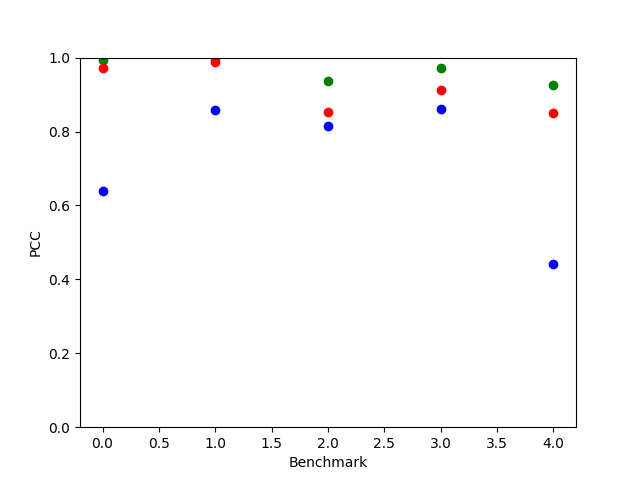
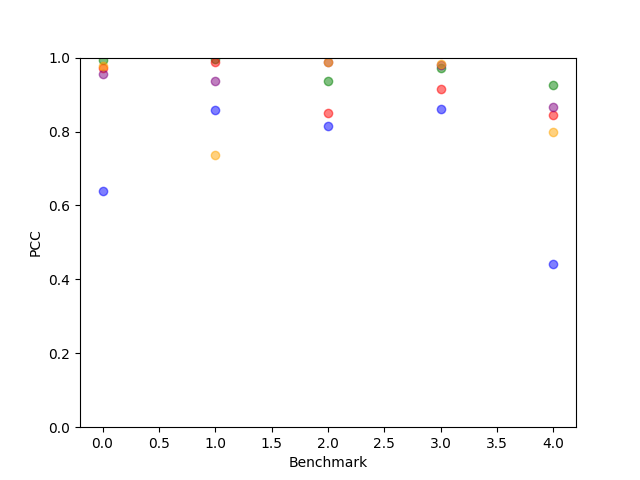
Changes to first benchmark creation and presentation. Full demo of xgboost and random forests for first benchmark

diff --git a/mosaic/preprocessing.py b/mosaic/preprocessing.py
@@ -1,6 +1,5 @@
 import numpy as np
 import pandas as pd
-from scipy.sparse import issparse
 import scanpy as sc
 
 
@@ -44,24 +43,17 @@ def generate_signature_matrix(adata_list, dest, cell_type_col='cluster_label',
     return signature
 
 
-def generate_eval_pseudobulk(adata_list, signature, dest=None, sample_col='sample_id',
+def generate_eval_pseudobulk(adata_list, peaks, dest=None, sample_col='sample_id',
                              dataset_prefix=False):
 
-    print("Loading signature reference...")
-    if isinstance(signature, str):
-        sig_df = pd.read_csv(signature, sep='\t', index_col=0)
-    else:
-        sig_df = signature.copy()
-
-    sig_peaks = sig_df.index
     bulk_sums = {}
     seen_samples = {}
 
     for i, adata in enumerate(adata_list):
         print(f"Aggregating bulk for dataset {i+1}/{len(adata_list)}...")
 
-        common_peaks = adata.var_names.intersection(sig_peaks)
-        missing = len(sig_peaks) - len(common_peaks)
+        common_peaks = adata.var_names.intersection(peaks)
+        missing = len(peaks) - len(common_peaks)
         if missing > 0:
             print(f"  Warning: {missing} signature peaks absent from dataset "
                   f"{i+1} — these will be treated as 0 after normalization.")
@@ -81,17 +73,17 @@ def generate_eval_pseudobulk(adata_list, signature, dest=None, sample_col='sampl
                 raw_sum = np.asarray(subset.X.sum(axis=0)).flatten()
 
                 # Align to full signature peak set
-                series = pd.Series(0.0, index=sig_peaks)
+                series = pd.Series(0.0, index=peaks)
                 series.loc[common_peaks] = raw_sum
 
-                bulk_sums[key] = bulk_sums.get(key, pd.Series(0.0, index=sig_peaks)) + series
+                bulk_sums[key] = bulk_sums.get(key, pd.Series(0.0, index=peaks)) + series
         else:
             key = f"sample_{i+1}"
             subset = adata[:, common_peaks]
             raw_sum = np.asarray(subset.X.sum(axis=0)).flatten()
-            series = pd.Series(0.0, index=sig_peaks)
+            series = pd.Series(0.0, index=peaks)
             series.loc[common_peaks] = raw_sum
-            bulk_sums[key] = bulk_sums.get(key, pd.Series(0.0, index=sig_peaks)) + series
+            bulk_sums[key] = bulk_sums.get(key, pd.Series(0.0, index=peaks)) + series
 
     print("Normalizing bulk samples...")
     bulk = pd.DataFrame(bulk_sums)  # peaks x samples
@@ -104,7 +96,7 @@ def generate_eval_pseudobulk(adata_list, signature, dest=None, sample_col='sampl
         col_totals = col_totals.drop(zero_samples)
 
     bulk_norm = np.log1p((bulk.div(col_totals, axis=1)) * 1e6)
-    bulk_norm = bulk_norm.loc[sig_peaks]
+    bulk_norm = bulk_norm.loc[peaks]
 
     print(f"Bulk matrix shape: {bulk_norm.shape} (peaks x samples)")
     if dest:
@@ -113,7 +105,7 @@ def generate_eval_pseudobulk(adata_list, signature, dest=None, sample_col='sampl
     return bulk_norm
 
 
-def generate_training_pseudobulks(adata, signature, cell_type_col="cluster_label", n_pseudobulks=1000):
+def generate_training_pseudobulks(adata, peaks, cell_type_index, cell_type_col="cluster_label", n_pseudobulks=1000) -> tuple[pd.DataFrame, pd.DataFrame]:
     rng = np.random.default_rng()
 
     groups = np.empty(adata.n_obs, dtype=int)
@@ -121,36 +113,51 @@ def generate_training_pseudobulks(adata, signature, cell_type_col="cluster_label
         groups[idx] = g
 
     adata.obs['pb_group'] = groups
-    bulk = generate_eval_pseudobulk([adata], signature, sample_col='pb_group')
+    bulk = generate_eval_pseudobulk([adata], peaks, sample_col='pb_group')
 
-    sig_df = pd.read_csv(signature, sep='\t', index_col=0)
     counts = pd.crosstab(adata.obs['pb_group'], adata.obs[cell_type_col])
     props = counts.div(counts.sum(axis=1), axis=0)
-    #props = props.reindex(index=X.index, columns=sig_df.columns, fill_value=0.0)
 
+    props = props.reindex(index=bulk.columns, columns=cell_type_index, fill_value=0.0)
     return bulk.T, props
-
 
 
 if __name__ == "__main__":
 
-    sig_path = "benchmark_data/benchmark1/test1/signature.tsv"
-    s2_adata = sc.read_h5ad("eval_data/granja/pbmc/h5ad/Granja2019-peripheral_blood_mononuclear_cells-D10T1.h5ad")
-    #s3_adata = sc.read_h5ad("eval_data/granja/pbmc/h5ad/Granja2019-peripheral_blood_mononuclear_cells-D10T1.h5ad")
-    #s4_adata = sc.read_h5ad("eval_data/granja/pbmc/h5ad/Granja2019-peripheral_blood_mononuclear_cells-D10T1.h5ad")
-    #s5_adata = sc.read_h5ad("eval_data/granja/pbmc/h5ad/Granja2019-peripheral_blood_mononuclear_cells-D10T1.h5ad")
+    cell_type_index = pd.read_csv("benchmark_data/benchmark1/test1/signature.tsv", sep='\t', index_col=0).columns
 
-    X, y = generate_training_pseudobulks(s2_adata, sig_path, n_pseudobulks=2000)
+    s1_peaks = pd.read_csv("benchmark_data/benchmark1/test1/eval_bulk.tsv", sep='\t', index_col=0).index
+    s2_peaks = pd.read_csv("benchmark_data/benchmark1/test2/eval_bulk.tsv", sep='\t', index_col=0).index
+    s3_peaks = pd.read_csv("benchmark_data/benchmark1/test3/eval_bulk.tsv", sep='\t', index_col=0).index
+    s4_peaks = pd.read_csv("benchmark_data/benchmark1/test4/eval_bulk.tsv", sep='\t', index_col=0).index
+    s5_peaks = pd.read_csv("benchmark_data/benchmark1/test5/eval_bulk.tsv", sep='\t', index_col=0).index
 
-    X.to_csv("benchmark_data/benchmark1/test1/training_bulk.csv")
-    y.to_csv("benchmark_data/benchmark1/test1/training_bulk_props.csv")
+    s1_adata = sc.read_h5ad("eval_data/granja/pbmc/h5ad/Granja2019-peripheral_blood_mononuclear_cells-D10T1.h5ad")
+    s2_adata = sc.read_h5ad("eval_data/granja/pbmc/h5ad/Granja2019-peripheral_blood_mononuclear_cells-D11T1.h5ad")
+    s3_adata = sc.read_h5ad("eval_data/granja/pbmc/h5ad/Granja2019-peripheral_blood_mononuclear_cells-D12T1.h5ad")
+    s4_adata = sc.read_h5ad("eval_data/granja/pbmc/h5ad/Granja2019-peripheral_blood_mononuclear_cells-D12T2.h5ad")
+    s5_adata = sc.read_h5ad("eval_data/granja/pbmc/h5ad/Granja2019-peripheral_blood_mononuclear_cells-D12T3.h5ad")
 
-    print(y)
-    #pb_3 = generate_training_pseudobulks(s3_adata, sig_path, 25)
-    #pb_4 = generate_training_pseudobulks(s4_adata, sig_path, 25)
-    #pb_5 = generate_training_pseudobulks(s5_adata, sig_path, 25)
+    peaks_list = [s1_peaks, s2_peaks, s3_peaks, s4_peaks, s5_peaks]
 
-    #training_pb = pd.concat([pb_2, pb_3, pb_4, pb_5])
+    for i in range(5):
 
-    #print(training_pb)
-    #training_pb.to_csv("benchmark_data/benchmark")
+        peaks = peaks_list[i]
+
+        pb_1, pb_1_props = generate_training_pseudobulks(s1_adata, peaks, cell_type_index, n_pseudobulks=20)
+        pb_2, pb_2_props = generate_training_pseudobulks(s2_adata, peaks, cell_type_index, n_pseudobulks=20)
+        pb_3, pb_3_props = generate_training_pseudobulks(s3_adata, peaks, cell_type_index, n_pseudobulks=20)
+        pb_4, pb_4_props = generate_training_pseudobulks(s4_adata, peaks, cell_type_index, n_pseudobulks=20)
+        pb_5, pb_5_props = generate_training_pseudobulks(s5_adata, peaks, cell_type_index, n_pseudobulks=20)
+
+        pseudobulks = [pb_1, pb_2, pb_3, pb_4, pb_5]
+        pseudobulk_props = [pb_1_props, pb_2_props, pb_3_props, pb_4_props, pb_5_props]
+
+        pseudobulks.pop(i)
+        pseudobulk_props.pop(i)
+
+        X = pd.concat(pseudobulks)
+        y = pd.concat(pseudobulk_props)
+
+        X.to_csv(f"benchmark_data/benchmark1/test{i+1}/training_bulk.csv")
+        y.to_csv(f"benchmark_data/benchmark1/test{i+1}/training_bulk_props.csv")

diff --git a/examples/example.py b/examples/example.py
@@ -1,19 +1,19 @@
 import pandas as pd
-from mosaic.deconvolve import nnls_deconvolve, elastic_net_deconvolve, nu_svr_deconvolve, xgb_deconvolve, print_proportions
+from mosaic.deconvolve import nnls_deconvolve, elastic_net_deconvolve, nu_svr_deconvolve, xgb_deconvolve, random_forests_deconvolve, print_proportions
 from mosaic.evaluate import evaluate_deconvolution
-from sklearn.model_selection import train_test_split
 import matplotlib.pyplot as plt
 import numpy as np
 
-import xgboost as xgb
-from xgboost import XGBRegressor
+celltype_index: pd.Series = pd.read_csv("benchmark_data/benchmark_labels.csv").set_index("original_label")["mapped_label"]
 
-celltype_mapping: pd.Series = pd.read_csv("benchmark_data/benchmark_labels.csv").set_index("original_label")["mapped_label"]
-target_index = pd.Index(celltype_mapping.unique())
+target_index: pd.Index = pd.Index(celltype_index.unique())
+celltype_mapping = celltype_index.to_dict()
 
 nnls_results = np.zeros((5, 2))
 en_results = np.zeros((5, 2))
 svr_results = np.zeros((5, 2))
+forests_results = np.zeros((5, 2))
+xgb_results = np.zeros((5, 2))
 
 def do_benchmark1():
     for i in range(1, 6):
@@ -24,48 +24,60 @@ def do_benchmark1():
         true_props = pd.Series(true_props.iloc[:, 0], index=true_props.index)
 
         sig = pd.read_csv(f"benchmark_data/benchmark1/test{i}/signature.tsv", sep='\t', index_col=0)
-        bulk = pd.read_csv(f"benchmark_data/benchmark1/test{i}/eval_bulk.tsv", sep='\t', index_col=0).iloc[:, 0]
+        eval_bulk = pd.read_csv(f"benchmark_data/benchmark1/test{i}/eval_bulk.tsv", sep='\t', index_col=0).iloc[:, 0]
 
-        nnls_props = nnls_deconvolve(sig, bulk)
+        training_pb = pd.read_csv(f"benchmark_data/benchmark1/test{i}/training_bulk.csv", index_col=0)
+        training_pb_props = pd.read_csv(f"benchmark_data/benchmark1/test{i}/training_bulk_props.csv", index_col=0)
+
+        nnls_props = nnls_deconvolve(sig, eval_bulk)
         nnls_props = nnls_props.rename(index=celltype_mapping)
         nnls_props = nnls_props.groupby(level=0).sum()
         nnls_props = nnls_props.reindex(target_index, fill_value=0)
 
-        en_props = elastic_net_deconvolve(sig, bulk)
+        en_props = elastic_net_deconvolve(sig, eval_bulk)
         en_props = en_props.rename(index=celltype_mapping)
         en_props = en_props.groupby(level=0).sum()
         en_props = en_props.reindex(target_index, fill_value=0)
 
-        svr_props = nu_svr_deconvolve(sig, bulk)
+        svr_props = nu_svr_deconvolve(sig, eval_bulk)
         svr_props = svr_props.rename(index=celltype_mapping)
         svr_props = svr_props.groupby(level=0).sum()
         svr_props = svr_props.reindex(target_index, fill_value=0)
+
+        forests_props = random_forests_deconvolve(training_pb, training_pb_props, eval_bulk)
+        forests_props = forests_props.rename(index=celltype_mapping)
+        forests_props = forests_props.groupby(level=0).sum()
+        forests_props = forests_props.reindex(target_index, fill_value=0)
+
+        xgb_props = xgb_deconvolve(training_pb, training_pb_props, eval_bulk)
+        xgb_props = xgb_props.rename(index=celltype_mapping)
+        xgb_props = xgb_props.groupby(level=0).sum()
+        xgb_props = xgb_props.reindex(target_index, fill_value=0)
 
         true_props = true_props.reindex(target_index, fill_value=0)
         nnls_eval = evaluate_deconvolution(nnls_props, true_props)
         en_eval = evaluate_deconvolution(en_props, true_props)
         svr_eval = evaluate_deconvolution(svr_props, true_props)
+        forests_eval = evaluate_deconvolution(forests_props, true_props)
+        xgb_eval = evaluate_deconvolution(xgb_props, true_props)
 
         nnls_results[i-1] = (i-1, nnls_eval['correlation'])
         en_results[i-1] = (i-1, en_eval['correlation'])
         svr_results[i-1] = (i-1, svr_eval['correlation'])
+        forests_results[i-1] = (i-1, forests_eval['correlation'])
+        xgb_results[i-1] = (i-1, xgb_eval['correlation'])
 
 
 if __name__ == "__main__":
-
-    training_bulk = pd.read_csv("benchmark_data/benchmark1/test1/training_bulk.csv")
-    training_bulk_props = pd.read_csv("benchmark_data/benchmark1/test1/training_bulk_props.csv")
-    eval_bulk = pd.read_csv("benchmark_data/benchmark1/test1/eval_bulk.tsv", sep='\t', index_col=0).iloc[:, 0]
-    xgb_deconvolve(training_bulk, training_bulk_props, eval_bulk)
-    quit()
-
     do_benchmark1()
+    print(nnls_results, en_results, svr_results, forests_results, xgb_results)
 
-    print(nnls_results, en_results, svr_results)
+    plt.scatter(nnls_results[:, 0], nnls_results[:, 1], c="blue", label="NNLS", alpha=0.5)
+    plt.scatter(en_results[:, 0], en_results[:, 1], c="green", label="Elastic Net", alpha=0.5)
+    plt.scatter(svr_results[:, 0], svr_results[:, 1], c="red", label="SVR", alpha=0.5)
+    plt.scatter(forests_results[:, 0], forests_results[:, 1], c="purple", label="Forests", alpha=0.5)
+    plt.scatter(xgb_results[:, 0], xgb_results[:, 1], c="orange", label="XGBoost", alpha=0.5)
 
-    plt.scatter(nnls_results[:, 0], nnls_results[:, 1], c="blue", label="NNLS")
-    plt.scatter(en_results[:, 0], en_results[:, 1], c="green", label="Elastic Net")
-    plt.scatter(svr_results[:, 0], svr_results[:, 1], c="red", label="SVR")
     plt.xlabel("Benchmark")
     plt.ylabel("PCC")
     plt.ylim(0, 1)

diff --git a/create_benchmarks.py b/create_benchmarks.py
@@ -2,8 +2,11 @@ from mosaic.evaluate import get_true_proportions
 import scanpy as sc
 import pandas as pd
 from data_preparation.prepare_data import construct_signature, construct_pseudobulk
+from mosaic.preprocessing import generate_training_pseudobulks
+import os
 
-celltype_mapping: pd.Series = pd.read_csv("eval_data/celltype_mapping.csv").set_index("original_label")["mapped_label"]
+celltype_index: pd.Series = pd.read_csv("benchmark_data/benchmark_labels.csv").set_index("original_label")["mapped_label"]
+celltype_mapping = celltype_index.to_dict()
 
 s1 = sc.read_h5ad("eval_data/granja/pbmc/h5ad/Granja2019-peripheral_blood_mononuclear_cells-D10T1.h5ad", backed="r+")
 s2 = sc.read_h5ad("eval_data/granja/pbmc/h5ad/Granja2019-peripheral_blood_mononuclear_cells-D11T1.h5ad", backed="r+")
@@ -12,25 +15,50 @@ s4 = sc.read_h5ad("eval_data/granja/pbmc/h5ad/Granja2019-peripheral_blood_mononu
 s5 = sc.read_h5ad("eval_data/granja/pbmc/h5ad/Granja2019-peripheral_blood_mononuclear_cells-D12T3.h5ad", backed="r+")
 
 
-def create_benchmark1():
+def create_training_data(training_samples, peaks, celltype_index, out_dir):
+    training_pb: list[pd.DataFrame] = []
+    training_pb_props: list[pd.DataFrame] = []
+
+    for sample in training_samples:
+        pb, pb_props = generate_training_pseudobulks(sample, peaks, celltype_index, n_pseudobulks=20)
+        training_pb.append(pb)
+        training_pb_props.append(pb_props)
+
+    X = pd.concat(training_pb)
+    y = pd.concat(training_pb_props)
+
+    X.to_csv(out_dir + "training_bulk.csv")
+    y.to_csv(out_dir + "training_bulk_props.csv")
+
+
+def create_benchmark1(sig_exists=False, bulk_exists=False):
     for i in range(1, 6):
         sig_samples = [s1, s2, s3, s4, s5]
         bulk_sample = sig_samples.pop(i-1)
-        """
 
-        sig = construct_signature(
-            adata_list=sig_samples,
-            dest=f"benchmark_data/benchmark1/test{i}/signature.tsv",
-            cell_type_col="cluster_label"
-        )
+        os.makedirs(f"benchmark_data/benchmark1/test{i}", exist_ok=True)
 
-        construct_pseudobulk(
-            adata_list=[bulk_sample],
-            signature=sig,
-            dest=f"benchmark_data/benchmark1/test{i}/bulk.tsv",
-            sample_col="Donor (HSC)",
-        )
-        """
+        if sig_exists:
+            sig = pd.read_csv(f"benchmark_data/benchmark1/test{i}/signature.tsv", sep='\t', index_col=0)
+        else:
+            sig = construct_signature(
+                adata_list=sig_samples,
+                dest=f"benchmark_data/benchmark1/test{i}/signature.tsv",
+                cell_type_col="cluster_label"
+            )
+
+        if bulk_exists:
+            bulk = pd.read_csv(f"benchmark_data/benchmark1/test{i}/eval_bulk.tsv", sep='\t', index_col=0).iloc[:, 0]
+        else:
+            bulk = construct_pseudobulk(
+                adata_list=[bulk_sample],
+                signature=sig,
+                dest=f"benchmark_data/benchmark1/test{i}/eval_bulk.tsv",
+                sample_col="Donor (HSC)",
+            )
+
+        celltype_index = sig.columns
+        create_training_data(sig_samples, bulk.index, celltype_index, f"benchmark_data/benchmark1/test{i}/")
 
         true_props = get_true_proportions(
             fragments_dir=f"eval_data/granja/pbmc/sample{i}/",
@@ -44,7 +72,9 @@ def create_benchmark1():
         true_props.to_csv(f"benchmark_data/benchmark1/test{i}/true_proportions.csv")
 
 
+
+
 BENCHMARK1 = True
 if __name__ == "__main__":
     if BENCHMARK1:
-        create_benchmark1()
+        create_benchmark1(sig_exists=False, bulk_exists=False)

diff --git a/mosaic/deconvolve.py b/mosaic/deconvolve.py
@@ -57,10 +57,10 @@ def nu_svr_deconvolve(signature_matrix: pd.DataFrame,
 def random_forests_deconvolve(training_bulks: pd.DataFrame, training_bulk_props: pd.DataFrame,
                        mixture_vector: pd.Series) -> pd.Series:
 
-    model = RandomForestRegressor(n_estimators=100)
+    model = RandomForestRegressor(n_estimators=25)
 
-    training_bulks = training_bulks.drop(columns=["Unnamed: 0"])
-    training_bulk_props = training_bulk_props.drop(columns=["Unknown"])
+    #training_bulks = training_bulks.drop(columns=["Unnamed: 0"])
+    #training_bulk_props = training_bulk_props.drop(columns=["Unknown"])
     X_train, X_test, y_train, y_test = train_test_split(
         training_bulks,
         training_bulk_props,
@@ -78,8 +78,8 @@ def random_forests_deconvolve(training_bulks: pd.DataFrame, training_bulk_props:
 def xgb_deconvolve(training_bulks: pd.DataFrame, training_bulk_props: pd.DataFrame,
                        mixture_vector: pd.Series) -> pd.Series:
 
-    training_bulks = training_bulks.drop(columns=["Unnamed: 0"])
-    training_bulk_props = training_bulk_props.drop(columns=["Unknown"])
+    #training_bulks = training_bulks.drop(columns=["Unnamed: 0"])
+    #training_bulk_props = training_bulk_props.drop(columns=["Unknown"])
     X_train, X_test, y_train, y_test = train_test_split(
         training_bulks,
         training_bulk_props,

diff --git a/data_preparation/prepare_data.py b/data_preparation/prepare_data.py
@@ -43,7 +43,7 @@ def construct_signature(adata_list, dest, cell_type_col='cluster_label',
 
 
 def construct_pseudobulk(adata_list, signature, dest, sample_col='sample_id',
-                         dataset_prefix=False):
+                         dataset_prefix=False) -> pd.Series:
 
     print("Loading signature reference...")
     if isinstance(signature, str):
